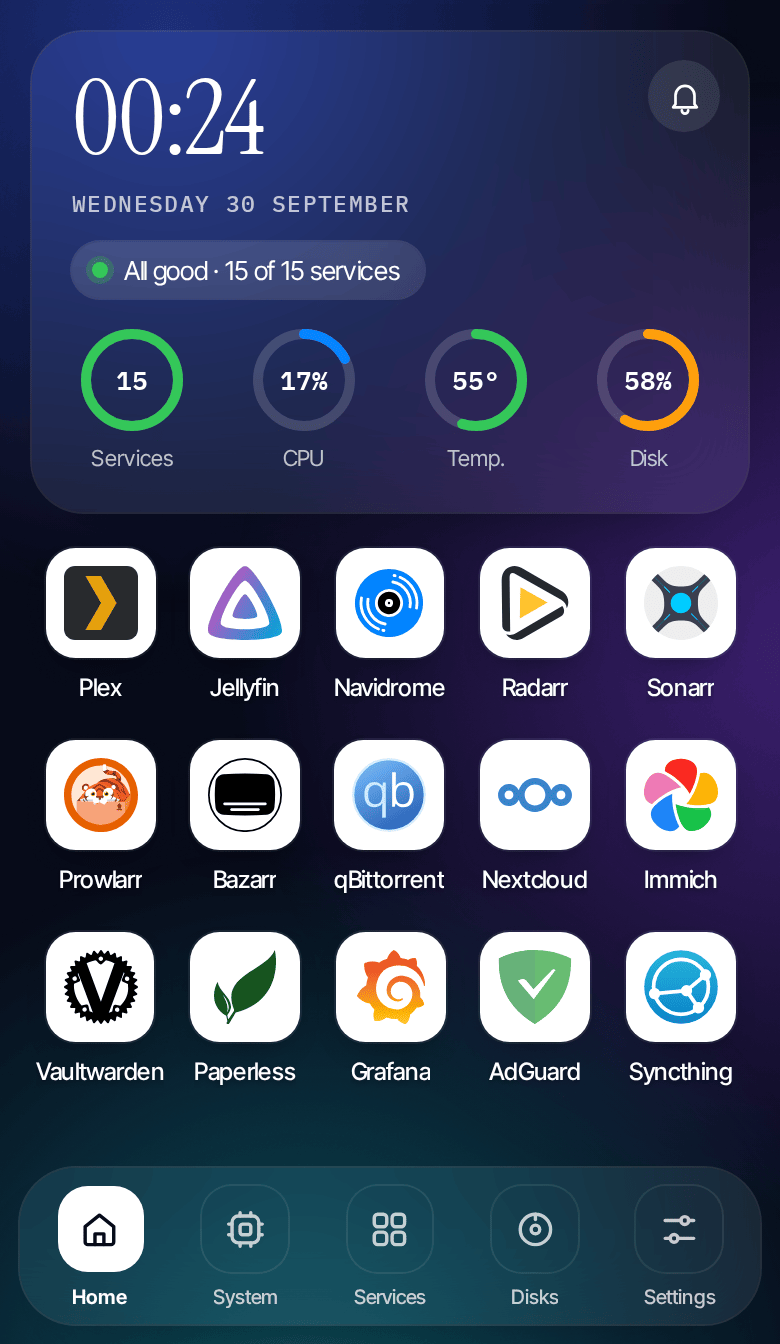
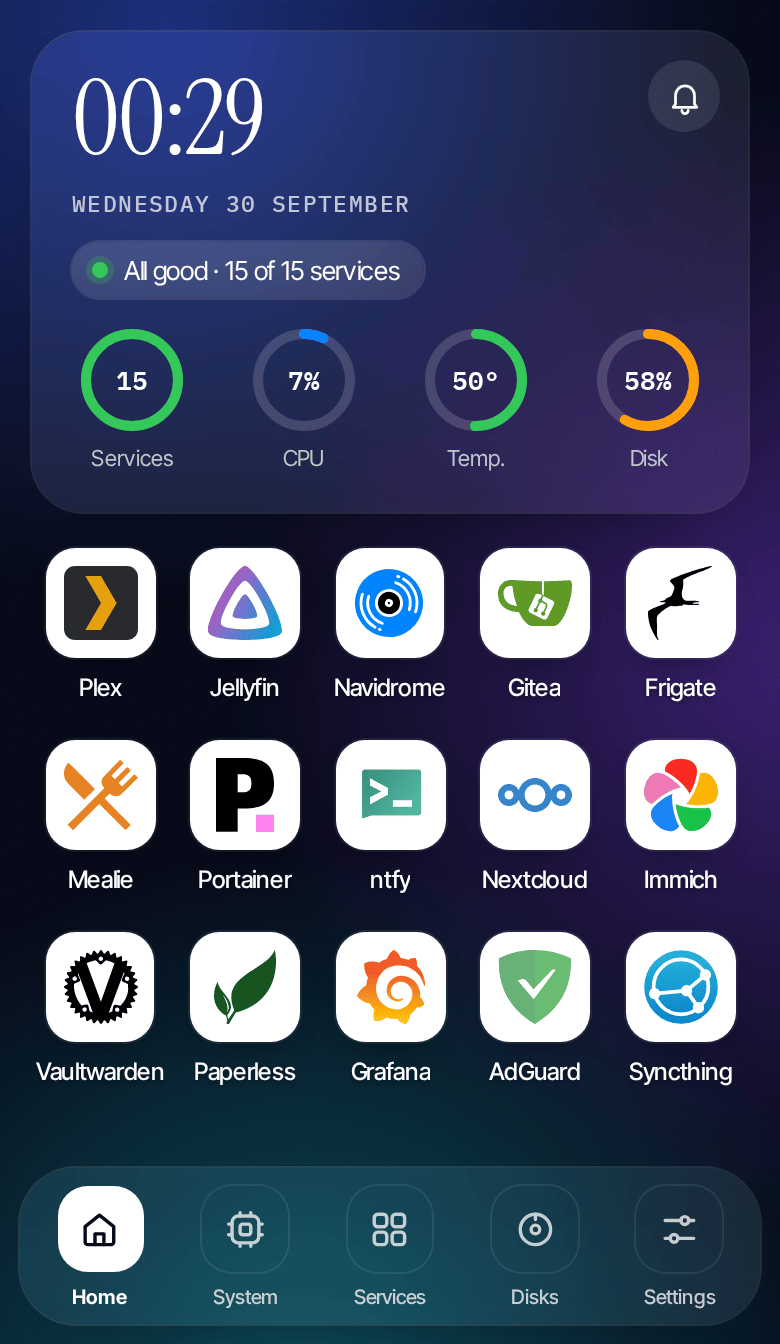
Demo: swap the download apps for Gitea, Frigate, Mealie, Portainer and ntfy

diff --git a/faro/demo.py b/faro/demo.py
@@ -25,16 +25,16 @@ CONFIG = {
          'icon': 'jellyfin.svg', 'host': 'pve1', 'guest': 101, 'check': 'none'},
         {'id': 'navidrome', 'name': 'Navidrome', 'description': 'Music', 'url': 'https://navidrome.example.com',
          'icon': 'navidrome.svg', 'host': 'pve1', 'guest': 110, 'check': 'none'},
-        {'id': 'radarr', 'name': 'Radarr', 'description': 'Movies', 'url': 'https://radarr.example.com',
-         'icon': 'radarr.svg', 'host': 'pve1', 'guest': 109, 'check': 'none'},
-        {'id': 'sonarr', 'name': 'Sonarr', 'description': 'Shows', 'url': 'https://sonarr.example.com',
-         'icon': 'sonarr.svg', 'host': 'pve1', 'guest': 109, 'check': 'none'},
-        {'id': 'prowlarr', 'name': 'Prowlarr', 'description': 'Indexers', 'url': 'https://prowlarr.example.com',
-         'icon': 'prowlarr.svg', 'host': 'pve1', 'guest': 109, 'check': 'none'},
-        {'id': 'bazarr', 'name': 'Bazarr', 'description': 'Subtitles', 'url': 'https://bazarr.example.com',
-         'icon': 'bazarr.svg', 'host': 'pve1', 'guest': 109, 'check': 'none'},
-        {'id': 'qbittorrent', 'name': 'qBittorrent', 'description': 'Downloads', 'url': 'https://qbittorrent.example.com',
-         'icon': 'qbittorrent.svg', 'host': 'pve1', 'guest': 109, 'check': 'none'},
+        {'id': 'gitea', 'name': 'Gitea', 'description': 'Git repositories', 'url': 'https://gitea.example.com',
+         'icon': 'gitea.svg', 'host': 'pve1', 'guest': 109, 'check': 'none'},
+        {'id': 'frigate', 'name': 'Frigate', 'description': 'Cameras', 'url': 'https://frigate.example.com',
+         'icon': 'frigate.svg', 'host': 'pve1', 'guest': 112, 'check': 'none'},
+        {'id': 'mealie', 'name': 'Mealie', 'description': 'Recipes', 'url': 'https://mealie.example.com',
+         'icon': 'mealie.svg', 'host': 'pve1', 'guest': 113, 'check': 'none'},
+        {'id': 'portainer', 'name': 'Portainer', 'description': 'Containers', 'url': 'https://portainer.example.com',
+         'icon': 'portainer.svg', 'host': 'pve1', 'guest': 109, 'check': 'none'},
+        {'id': 'ntfy', 'name': 'ntfy', 'description': 'Notifications', 'url': 'https://ntfy.example.com',
+         'icon': 'ntfy.svg', 'host': 'pve1', 'guest': 113, 'check': 'none'},
         {'id': 'nextcloud', 'name': 'Nextcloud', 'description': 'Files and photos', 'url': 'https://nextcloud.example.com',
          'icon': 'nextcloud.svg', 'host': 'pve1', 'guest': 102, 'check': 'none'},
         {'id': 'immich', 'name': 'Immich', 'description': 'Photo backup', 'url': 'https://immich.example.com',
@@ -67,7 +67,8 @@ GUESTS = [  # vmid, kind, name, cpus, maxmem GiB, status
     (103, 'lxc', 'vaultwarden', 1, 0.5, 'running'), (104, 'lxc', 'grafana', 1, 1, 'running'),
     (105, 'lxc', 'immich', 4, 6, 'running'), (106, 'qemu', 'k3s-lab', 4, 8, 'stopped'),
     (107, 'qemu', 'win11', 8, 16, 'stopped'), (108, 'lxc', 'plex', 4, 4, 'running'),
-    (109, 'lxc', 'arr', 2, 3, 'running'), (110, 'lxc', 'navidrome', 1, 1, 'running'), (111, 'lxc', 'paperless', 2, 2, 'running'),
+    (109, 'lxc', 'dev', 2, 3, 'running'), (110, 'lxc', 'navidrome', 1, 1, 'running'), (111, 'lxc', 'paperless', 2, 2, 'running'),
+    (112, 'lxc', 'frigate', 4, 4, 'running'), (113, 'lxc', 'tools', 1, 1, 'running'),
 ]
 
 
@@ -100,7 +101,7 @@ def pve1(t, up):
                'sdb': {'read': 0, 'write': 5e5, 'busy': 1}},
         'temps': [{'chip': 'k10temp', 'label': 'Tctl', 'value': round(38 + cpu * 0.5, 1), 'crit': None},
                   {'chip': 'nvme', 'label': 'Composite', 'value': 41.9, 'crit': 84}],
-        'gcpu': {101: 0.35, 102: 0.12, 103: 0.01, 104: 0.05, 105: 0.4, 108: 0.3, 109: 0.18, 110: 0.02, 111: 0.06},
+        'gcpu': {101: 0.35, 102: 0.12, 103: 0.01, 104: 0.05, 105: 0.4, 108: 0.3, 109: 0.08, 110: 0.02, 111: 0.06, 112: 0.45, 113: 0.02},
         'host': {'node': 'pve1', 'cpu_model': 'AMD Ryzen 5 5600G with Radeon Graphics', 'threads': 12,
                  'kernel': '6.14.8-2-pve', 'arch': 'x86_64', 'os': 'Debian GNU/Linux 13 (trixie)', 'pve': '9.1.1'},
         'agent': {'version': '1.0.0', 'protocol': 1, 'root': True, 'features': ['lsblk', 'pvesh', 'smartctl', 'zpool']},
